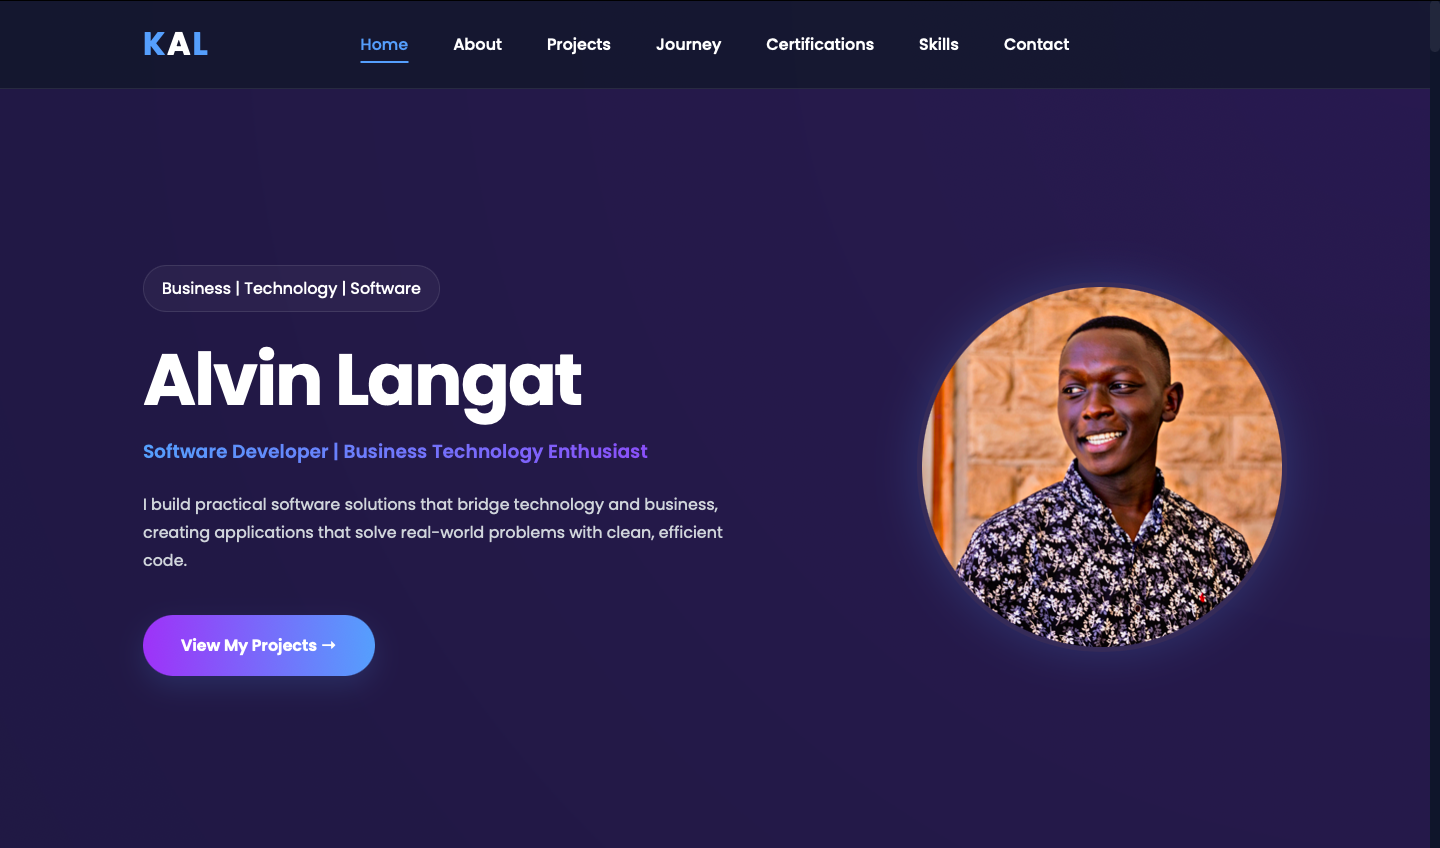
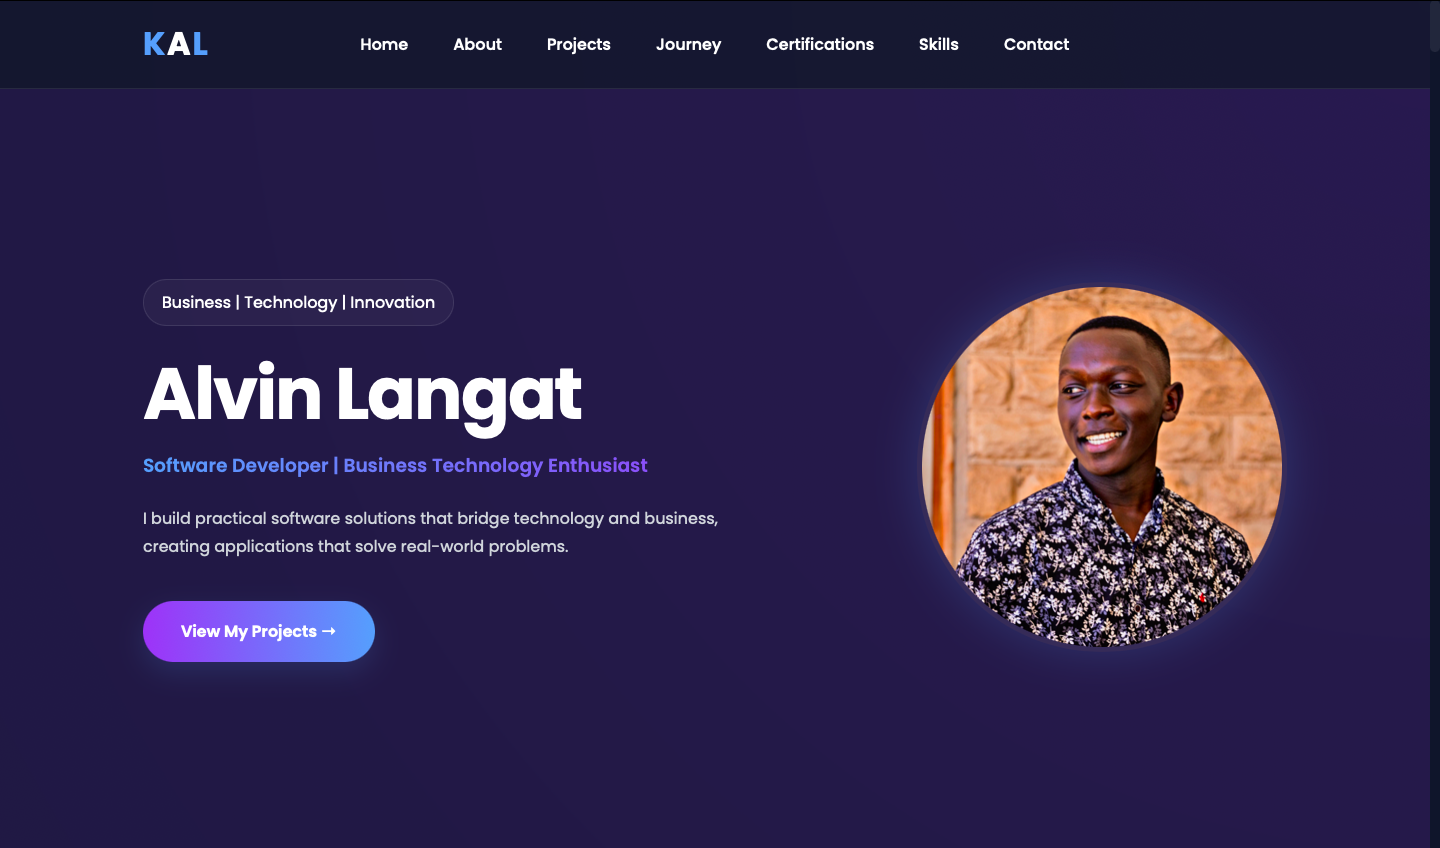
Update portfolio professional experience and repository preview image

diff --git a/index.html b/index.html
@@ -72,7 +72,7 @@
         <div class="hero-text">
 
             <div class="hero-badge">
-                Business | Technology | Software
+                Business | Technology | Innovation
             </div>
 
             <h1>
@@ -87,7 +87,7 @@
             <p>
                 I build practical software solutions that bridge technology
                 and business, creating applications that solve real-world
-                problems with clean, efficient code.
+                problems.
             </p>
 
             <a href="#projects" class="btn">
@@ -823,9 +823,9 @@
             </h4>
 
             <p>
-                Providing freelance software development and data management
+                Provided freelance software development and data management
                 services, delivering practical technology solutions tailored
-                to business and client needs. Also supporting data entry,
+                to business and client needs. Also supported data entry,
                 web research, document preparation, and technical
                 documentation.
             </p>
